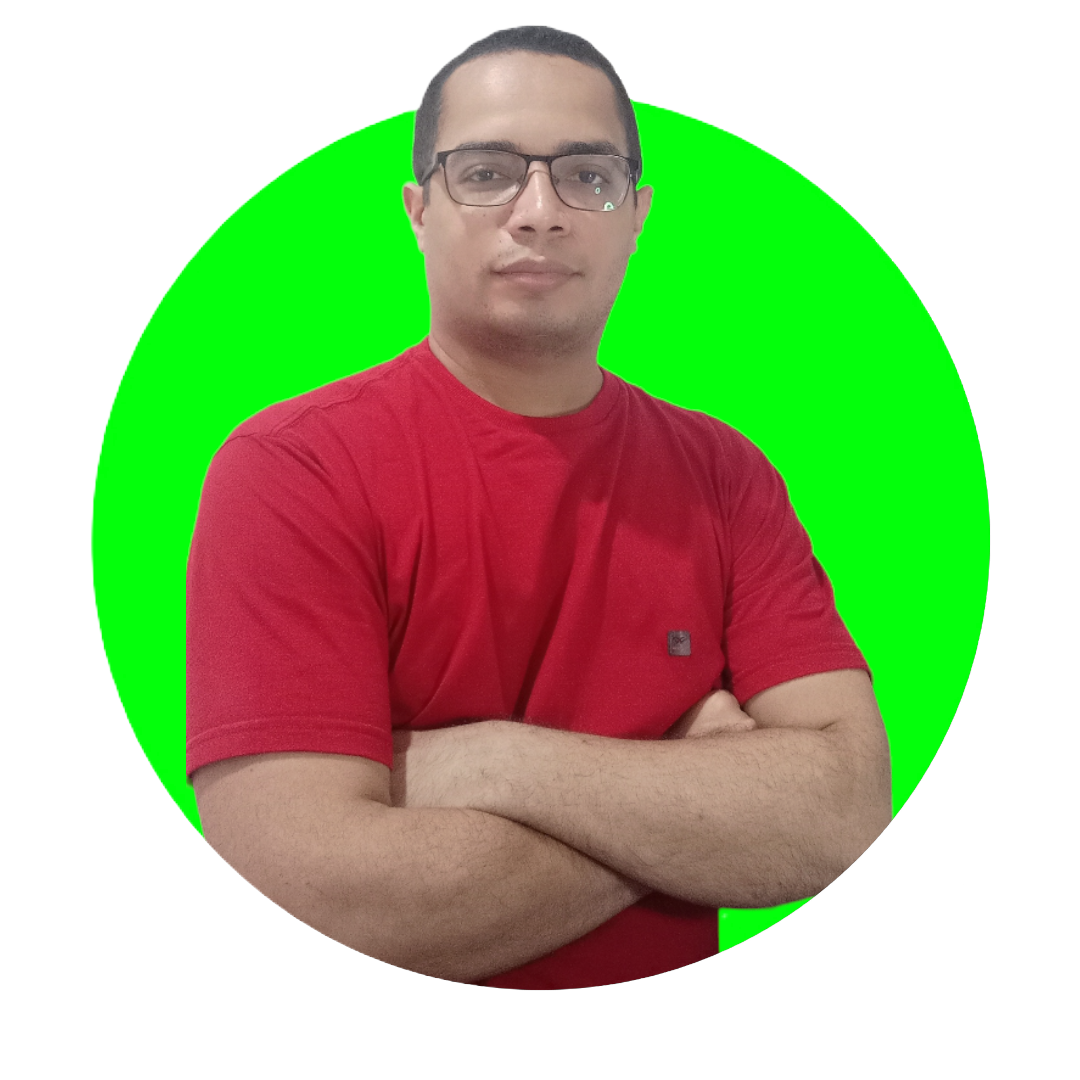
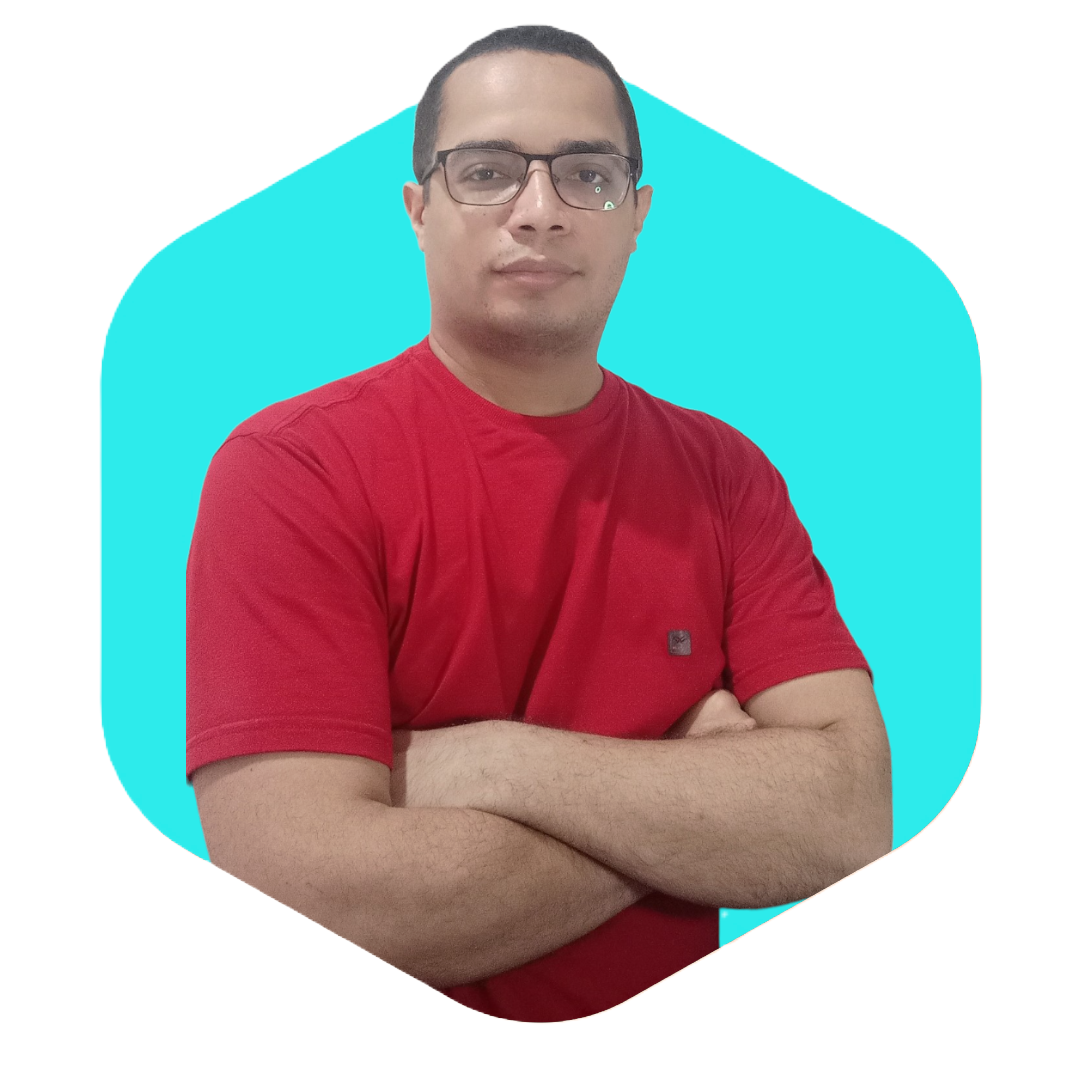
feat: alteração da cor

diff --git a/style.css b/style.css
@@ -23,7 +23,7 @@ body {
   padding: 10px 40px;
   font-size: 18px;
   font-weight: 600;
-  background-color: #00ff08;
+  background-color: #2aebeb;
   border: 0;
   border-radius: 30px;
   cursor: pointer;
@@ -31,7 +31,7 @@ body {
 }
 
 .btn-contato button:hover {
-  box-shadow: 0px 0px 8px #00ff0868;
+  box-shadow: 0px 0px 8px #2aebeb68;
   transform: scale(1.05);
 }
 
@@ -42,12 +42,12 @@ h2.titulo {
 }
 
 h2.titulo span {
-  color: #00ff08;
+  color: #2aebeb;
 }
 
 button:hover,
 form .btn-enviar input:hover {
-  box-shadow: 0px 0px 8px #00ff0868;
+  box-shadow: 0px 0px 8px #2aebeb68;
   transform: scale(1.05);
 }
 
@@ -91,7 +91,7 @@ header nav.menu-desktop ul li {
 }
 
 .btn-abrir-menu i {
-  color: #00ff08;
+  color: #2aebeb;
   font-size: 40px;
 }
 
@@ -120,7 +120,7 @@ header nav.menu-desktop ul li {
 }
 
 .menu-mobile .btn-fechar i {
-  color: #00ff08;
+  color: #2aebeb;
   font-size: 30px;
 }
 
@@ -137,7 +137,7 @@ header nav.menu-desktop ul li {
 }
 
 .menu-mobile nav ul li a:hover {
-  background-color: #00ff08;
+  background-color: #2aebeb;
   color: #000;
 }
 
@@ -169,7 +169,7 @@ section.topo-do-site .flex {
 }
 
 .topo-do-site h1 span {
-  color: #00ff08;
+  color: #2aebeb;
 }
 
 .topo-do-site .txt-topo-site p {
@@ -217,7 +217,7 @@ section.especialidades .flex {
 
 .especialidades-box i {
   font-size: 70px;
-  color: #00ff08;
+  color: #2aebeb;
 }
 
 .especialidades-box h3 {
@@ -249,7 +249,7 @@ section.sobre .flex {
 }
 
 .sobre .txt-sobre h2 span {
-  color: #00ff08;
+  color: #2aebeb;
   display: block;
 }
 
@@ -263,7 +263,7 @@ section.sobre .flex {
   height: 60px;
   border-radius: 50%;
   border: none;
-  background-color: #00ff08;
+  background-color: #2aebeb;
   font-size: 22px;
   cursor: pointer;
   margin: 0 5px;
@@ -355,7 +355,7 @@ form .btn-enviar {
 
 form .btn-enviar input {
   width: 120px;
-  background-color: #00ff08;
+  background-color: #2aebeb;
   color: #000;
   font-weight: 700;
   cursor: pointer;
@@ -376,12 +376,13 @@ footer .line-footer {
 }
 
 .borda {
-  border-top: 2px solid #00ff08;
+  border-top: 2px solid #2aebeb;
 }
 
 footer .line-footer p i {
-  color: #00ff08;
+  color: #2aebeb;
   font-size: 22px;
+  padding: 0.5rem;
 }
 
 footer .line-footer p a {
